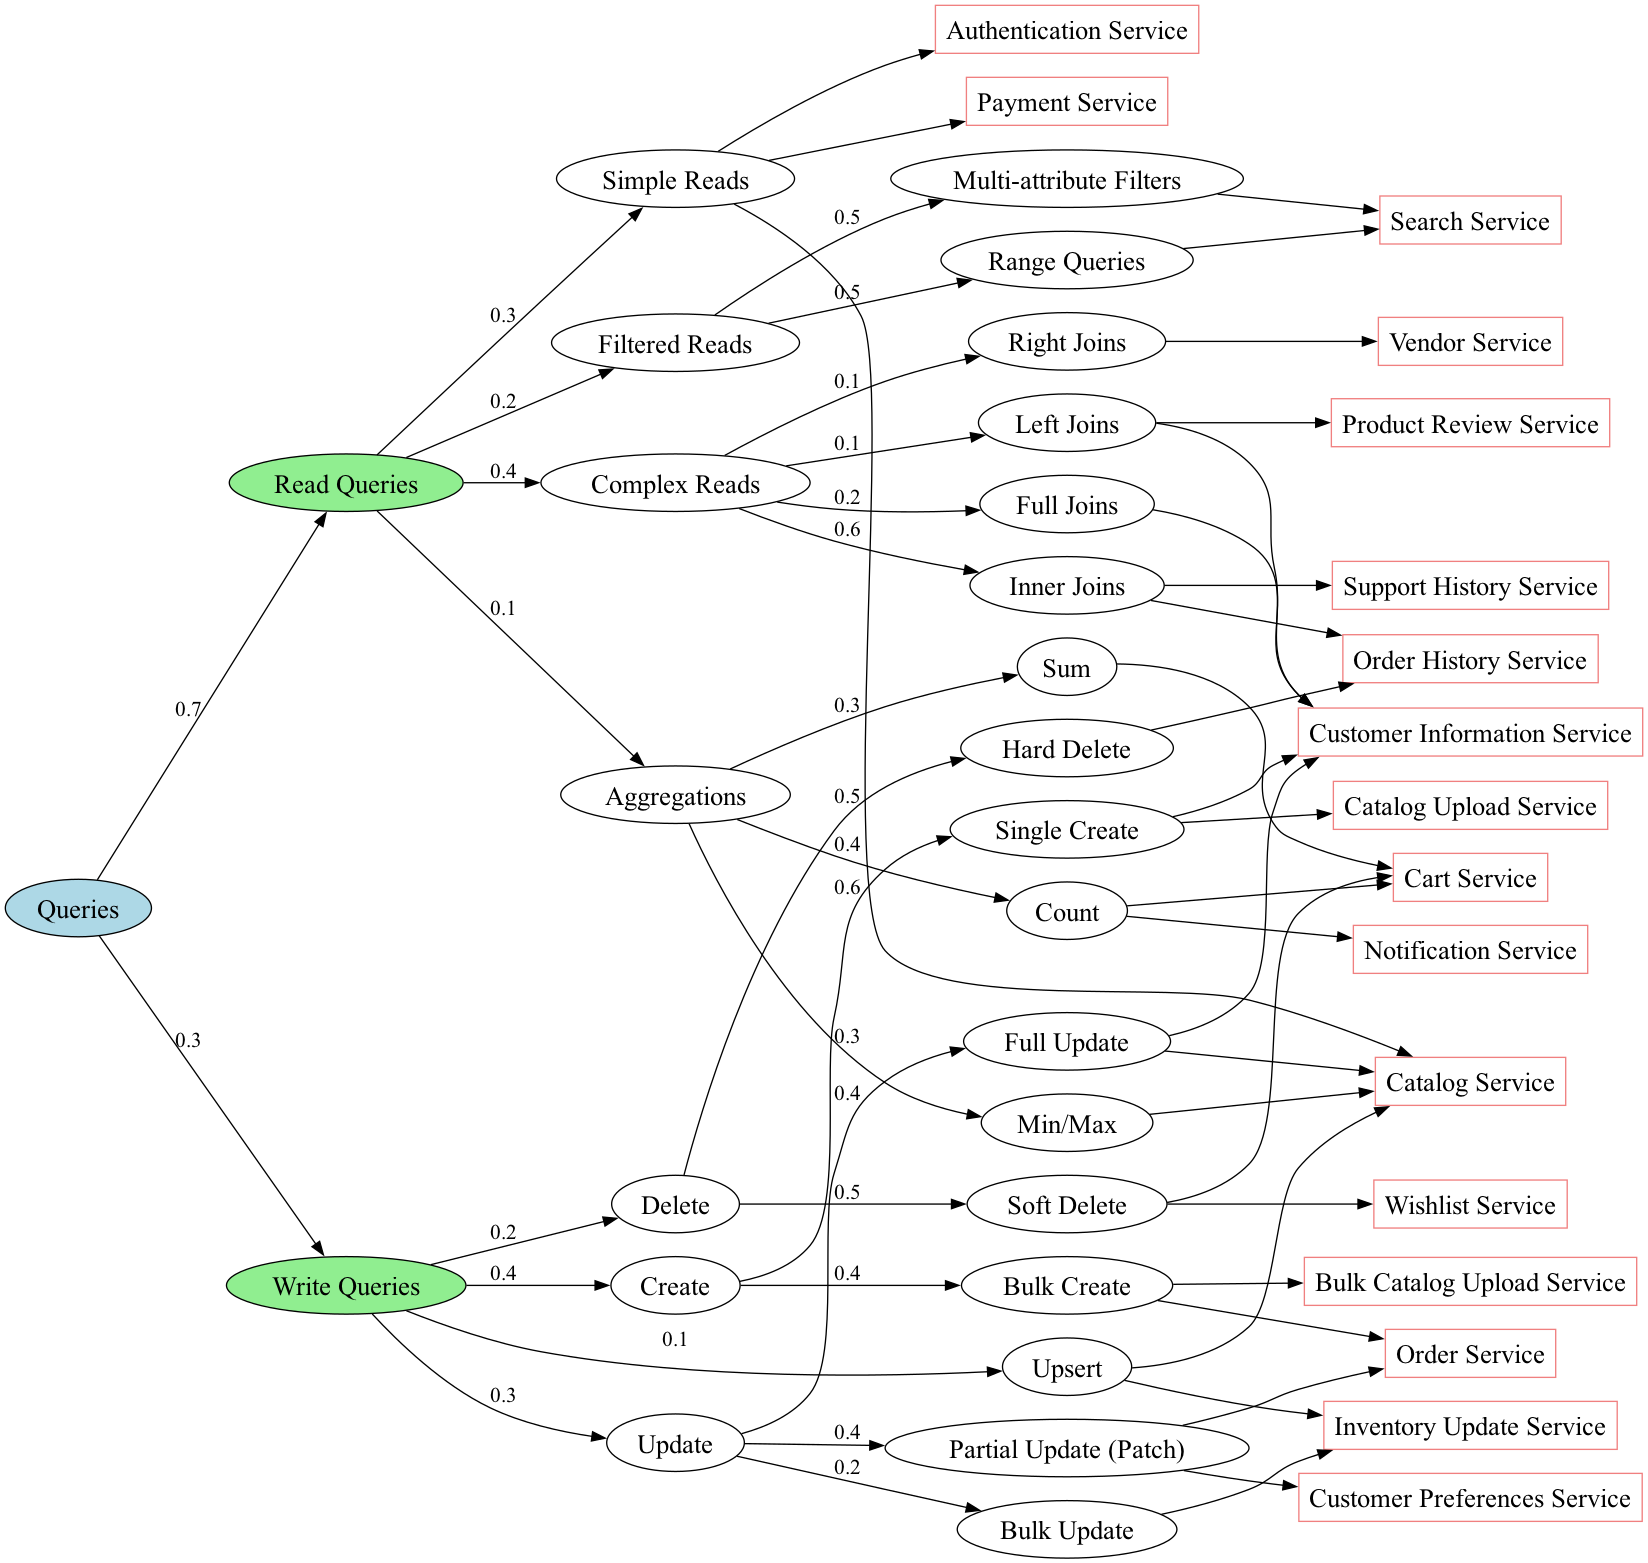
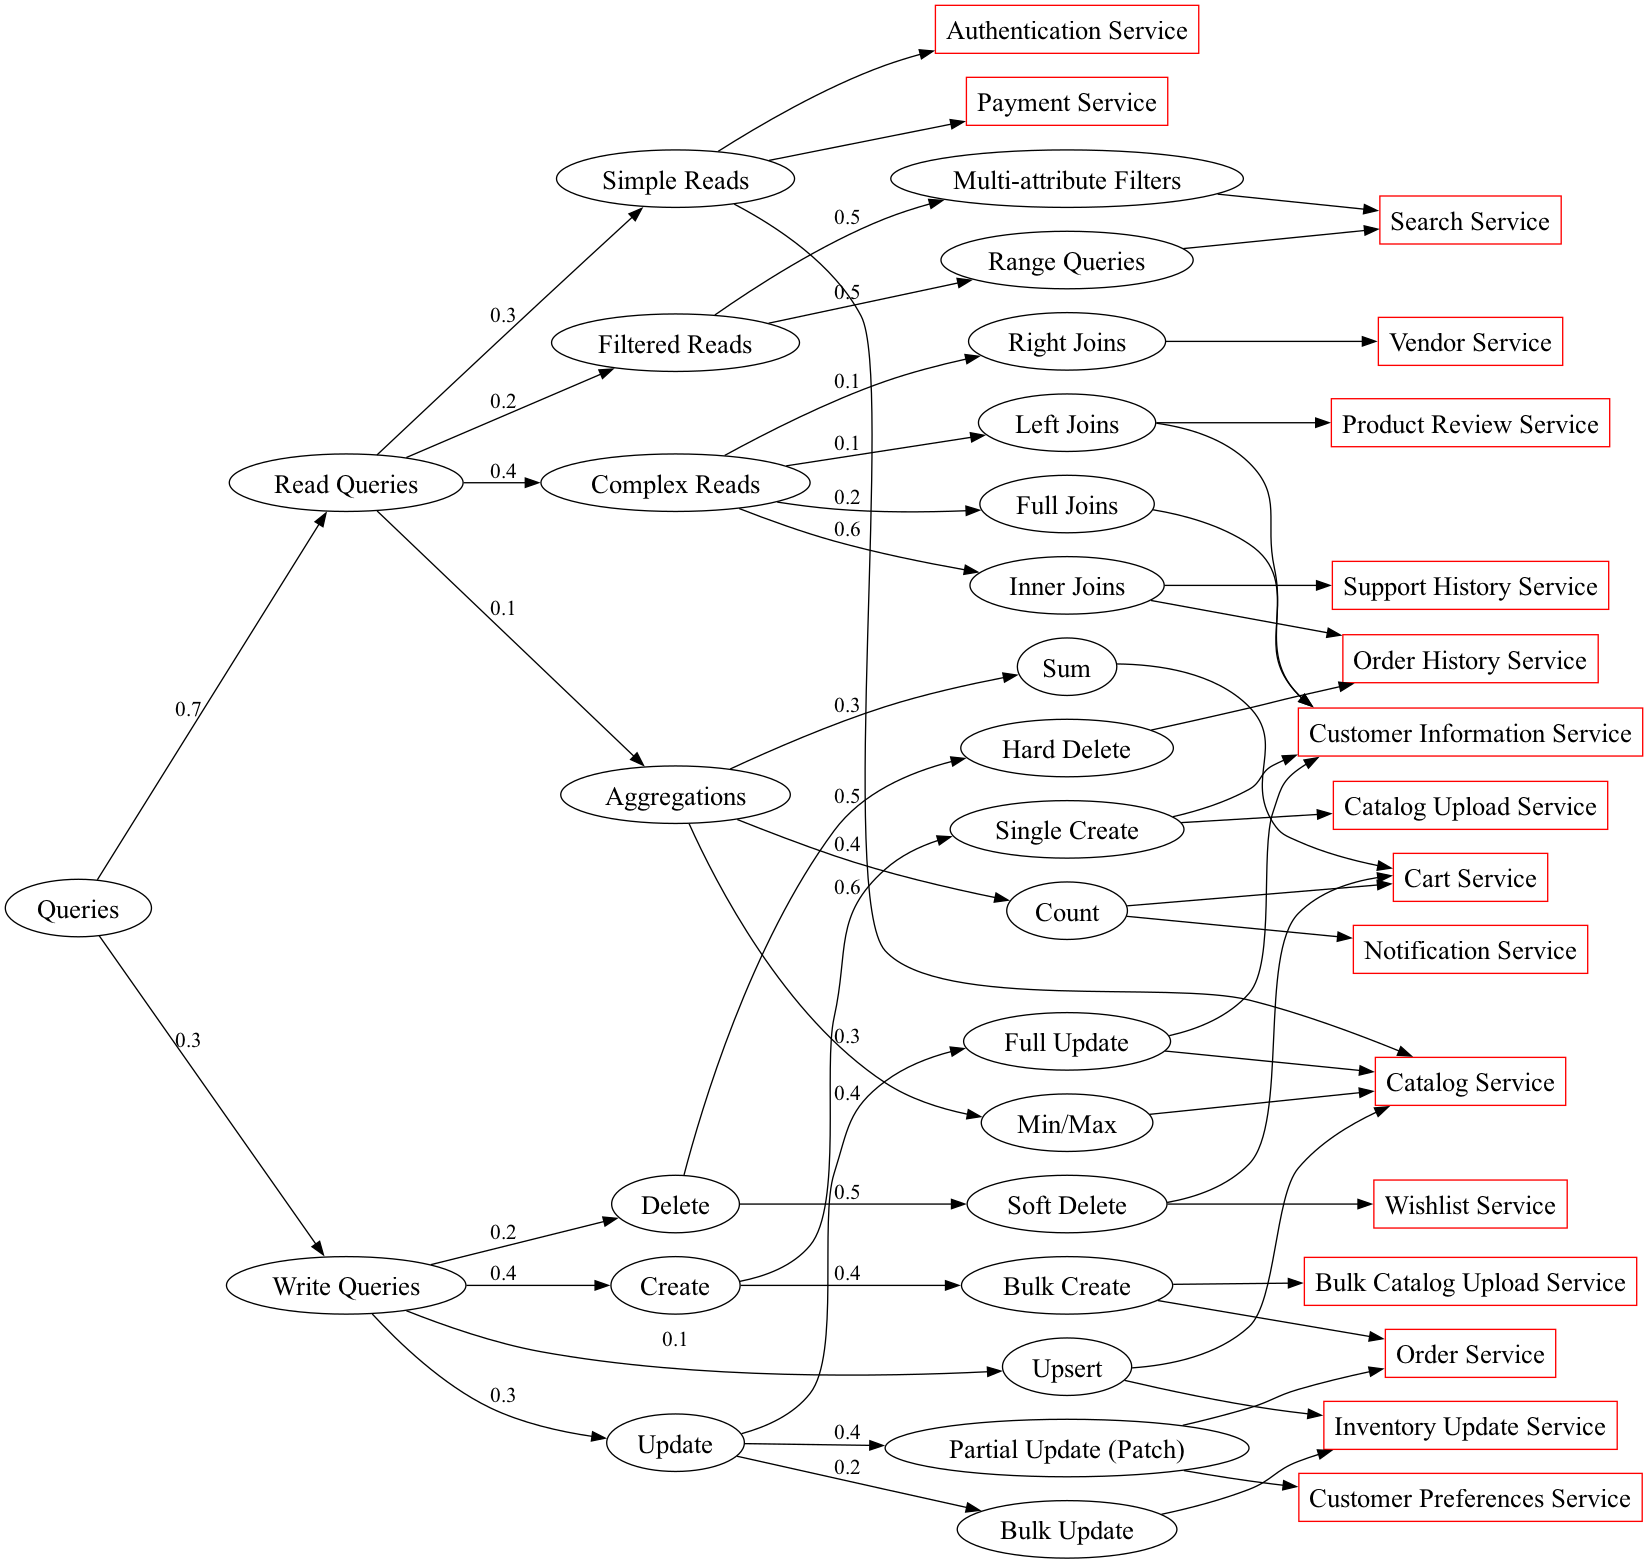
updated

diff --git a/graph2.py b/graph2.py
@@ -61,8 +61,9 @@ leaf_nodes = {
 for parent, services in leaf_nodes.items():
     for service in services:
         G.add_edge(parent, service)
-        G.nodes[service]['color'] = 'lightcoral'
+        G.nodes[service]['color'] = 'red'
         G.nodes[service]['shape'] = 'box'
+
 
 # Create a pygraphviz AGraph from the NetworkX graph for better layout
 G_pg = nx.nx_agraph.to_agraph(G)
